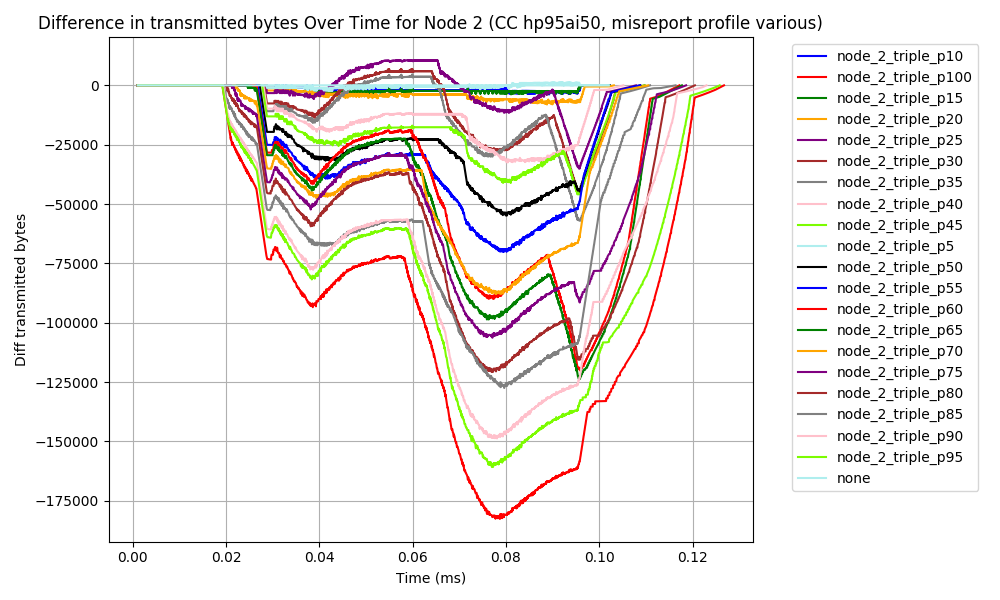
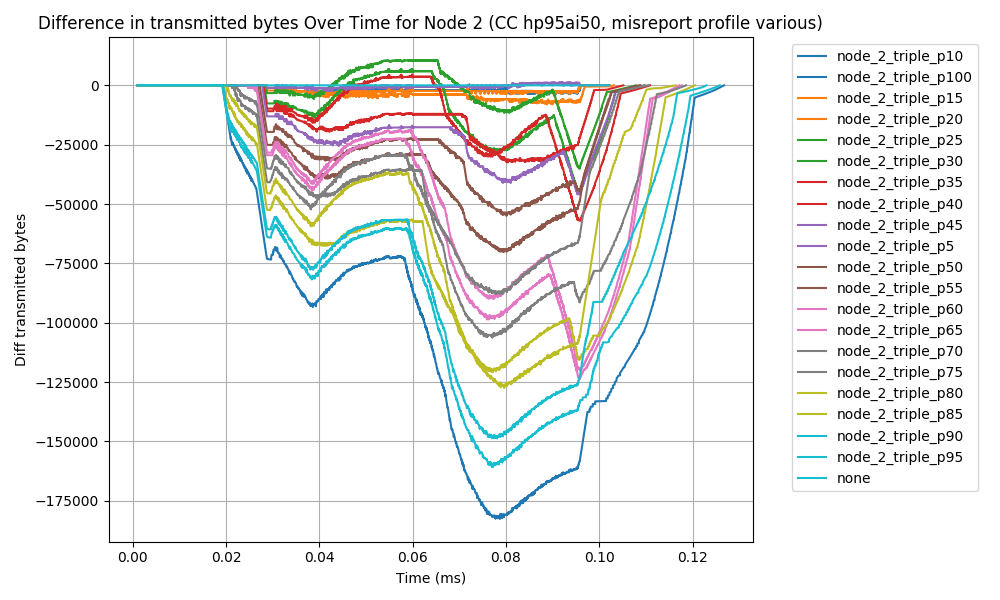
Use matplotlib color maps

Changed region(s): [[0.124, 0.09, 0.713, 0.87], [0.527, 0.78, 0.589, 0.84]]

diff --git a/analysis/graph/graph_helpers.py b/analysis/graph/graph_helpers.py
@@ -3,6 +3,7 @@ from typing import List, Optional, Tuple
 import matplotlib
 matplotlib.use('Agg')
 import matplotlib.pyplot as plt
+import numpy as np
 
 script_dir = os.path.dirname(os.path.abspath(__file__))
 
@@ -97,10 +98,15 @@ def plot_data_points(times, data_points, xlabel, ylabel, title, out_file_name):
 # Plot multiple data points over time in stacks
 def plot_stacked_data_points(data_points_li, xlabel, ylabel, title, out_file_name):
     # type: (List[Tuple[str, List[int], List[int]]], str, str, str, str) -> None
+    
+    # (experiment_name, timestamps, data_points)
     data_points_li.sort(key=lambda x: x[0])
     plt.figure(figsize=(10, 6))
+    
+    cmap = plt.get_cmap('tab10')
+    colors = cmap(np.linspace(0, 1, len(data_points_li)))
     for idx, (label, times, data_points) in enumerate(data_points_li):
-        plt.plot(times, data_points, color=COLORS[idx % len(COLORS)], label=label)
+        plt.plot(times, data_points, color=colors[idx % len(colors)], label=label)
     plt.xlabel(xlabel)
     plt.ylabel(ylabel)
     plt.title(title)
